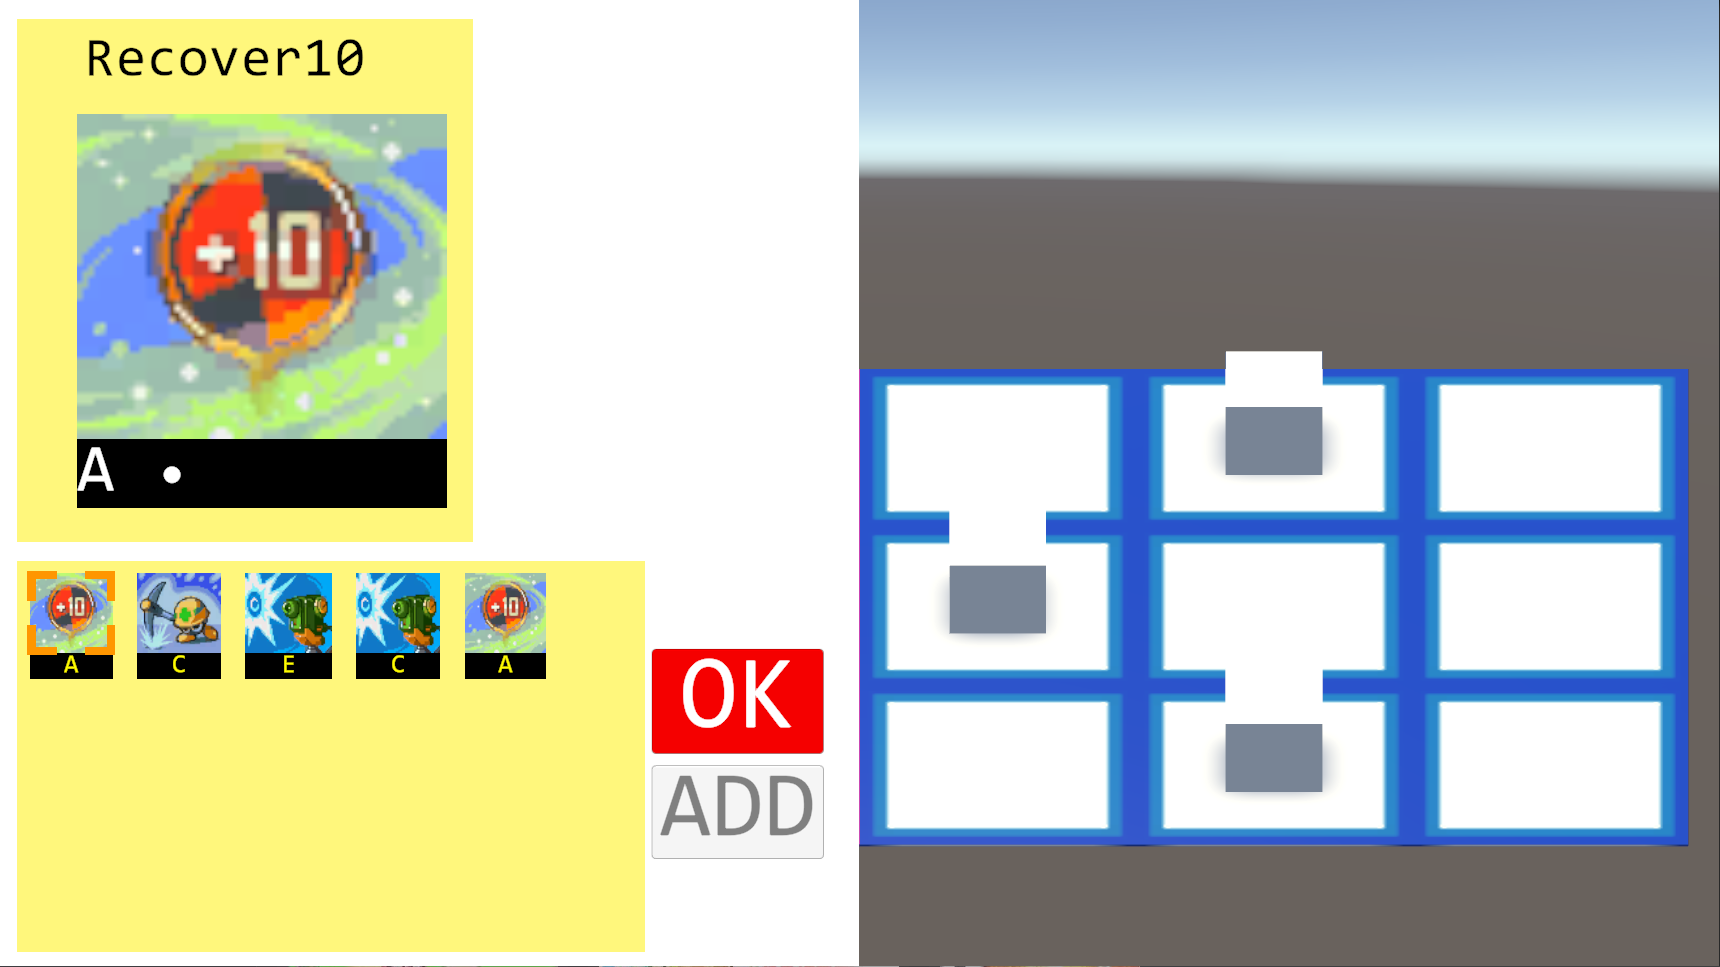
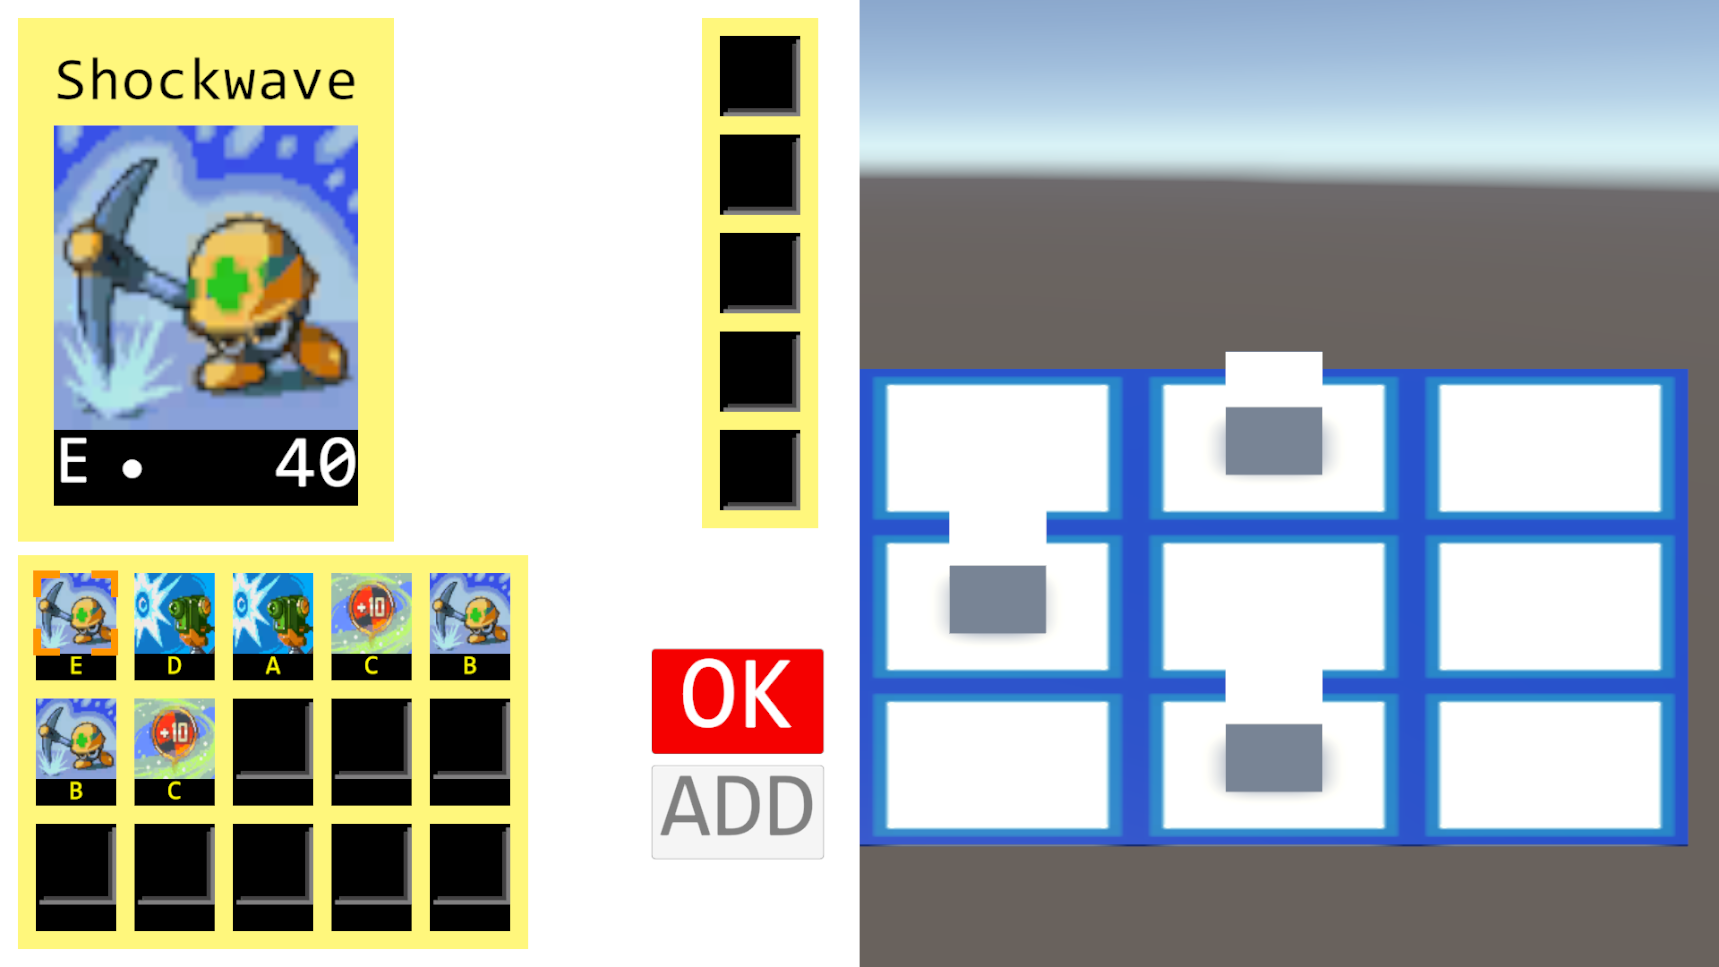
Implemented add function

diff --git a/Assets/Scripts/Battle/ChipScreen.cs b/Assets/Scripts/Battle/ChipScreen.cs
@@ -54,7 +54,22 @@ namespace Battle
         /// <summary>
         /// 
         /// </summary>
-        public int ChipSelectionCount;
+        public int ChipSelectionCount
+        {
+            get
+            {
+                return _chipSelectionCount;
+            }
+            set
+            {
+                _chipSelectionCount = Mathf.Clamp(value, 1, 15);
+            }
+        }
+
+        /// <summary>
+        /// 
+        /// </summary>
+        private int _chipSelectionCount;
 
         /// <summary>
         /// 
@@ -106,6 +121,7 @@ namespace Battle
         /// </summary>
         void Start()
         {
+            ChipSelectionCount = 5;
             PlayerInput = GetComponent<PlayerInput>();
             chipSelectionTiles = new List<ChipTile>();
             foreach (ChipTile chipTile in selectionStack.GetComponentsInChildren<ChipTile>())
@@ -114,31 +130,14 @@ namespace Battle
                 chipTile.SetChip(null);
             }
 
-            char[] CODES = new char[] { 'A', 'B', 'C', 'D', 'E' };
-
             ChipTiles = new ChipTile[3, 5];
-            int enabled = 0;
             for (int x = 0; x < ChipTiles.GetLength(0); x++)
             {
                 Transform chipRow = GameObject.Find($"Chip row {x}").transform;
                 for (int y = 0; y < ChipTiles.GetLength(1); y++)
                 {
                     ChipTile thisTile = chipRow.Find($"Chip {y}").GetComponent<ChipTile>();
-                    if (enabled < ChipSelectionCount)
-                    {
-                        enabled++;
-                        int chipSelection = UnityEngine.Random.Range(0, 3);
-                        char code = CODES[UnityEngine.Random.Range(0, 5)];
-                        thisTile.SetChip(chipSelection switch
-                        {
-                            0 => new Cannon(code),
-                            1 => new Shockwave(code),
-                            2 => new Recover10(code),
-                            _ => throw new NotImplementedException($"Chip {chipSelection}"),
-                        });
-                    }
-                    else
-                        thisTile.SetChip(null);
+                    thisTile.SetChip(null);
                     ChipTiles[x, y] = thisTile;
                 }
             }
@@ -167,6 +166,24 @@ namespace Battle
                     break;
                 else
                     x.SetChip(currentChips.Dequeue());
+
+            char[] CODES = new char[] { 'A', 'B', 'C', 'D', 'E' };
+
+            int enabled = ChipTiles.Count(e => e.chip != null);
+            foreach (ChipTile thisTile in ChipTiles.Where(e => e.chip == null))
+            {
+                int chipSelection = UnityEngine.Random.Range(0, 3);
+                char code = CODES[UnityEngine.Random.Range(0, 5)];
+                thisTile.SetChip(chipSelection switch
+                {
+                    0 => new Cannon(code),
+                    1 => new Shockwave(code),
+                    2 => new Recover10(code),
+                    _ => throw new NotImplementedException($"Chip {chipSelection}"),
+                });
+                enabled++;
+                if (enabled == ChipSelectionCount) break;
+            }
             if (ChipTiles.Count(e => e.chip != null) == 0)
             {
                 MoveTo(0, 5);
@@ -201,7 +218,7 @@ namespace Battle
         /// </summary>
         public void AddChips()
         {
-            //TODO: Increase ChipSelectionCount
+            ChipSelectionCount += chipSelectionTiles.Count(e => e.chip != null);
             SwitchToGame();
         }
 
